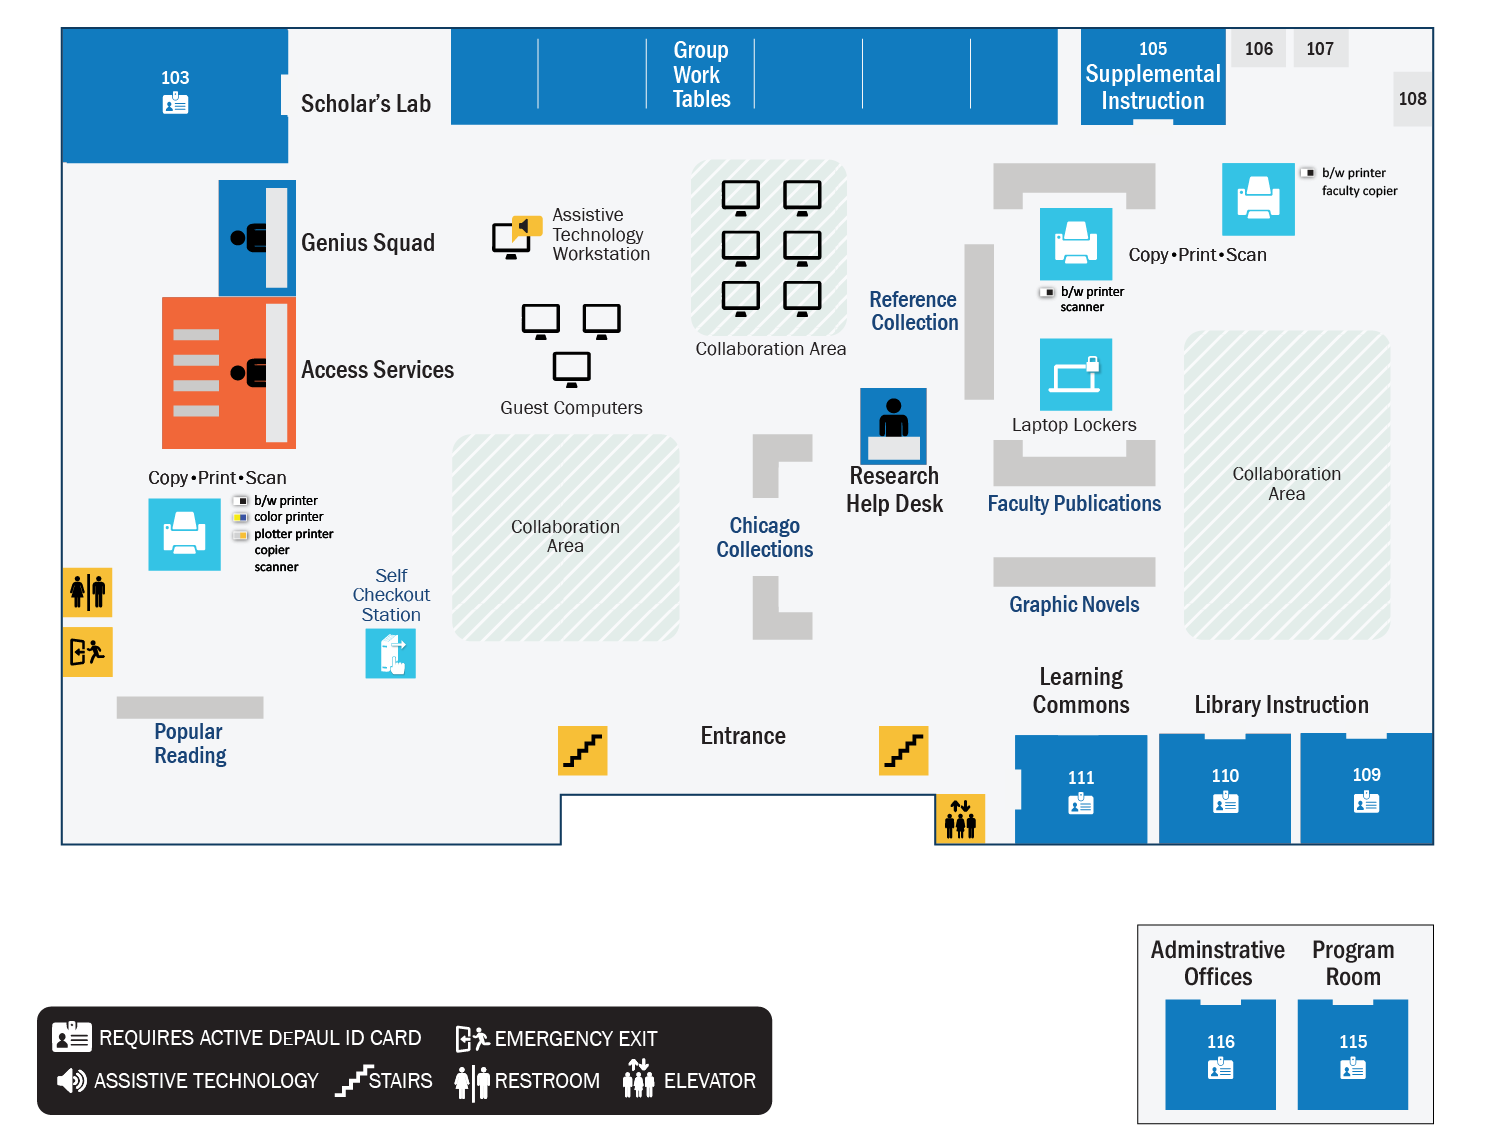
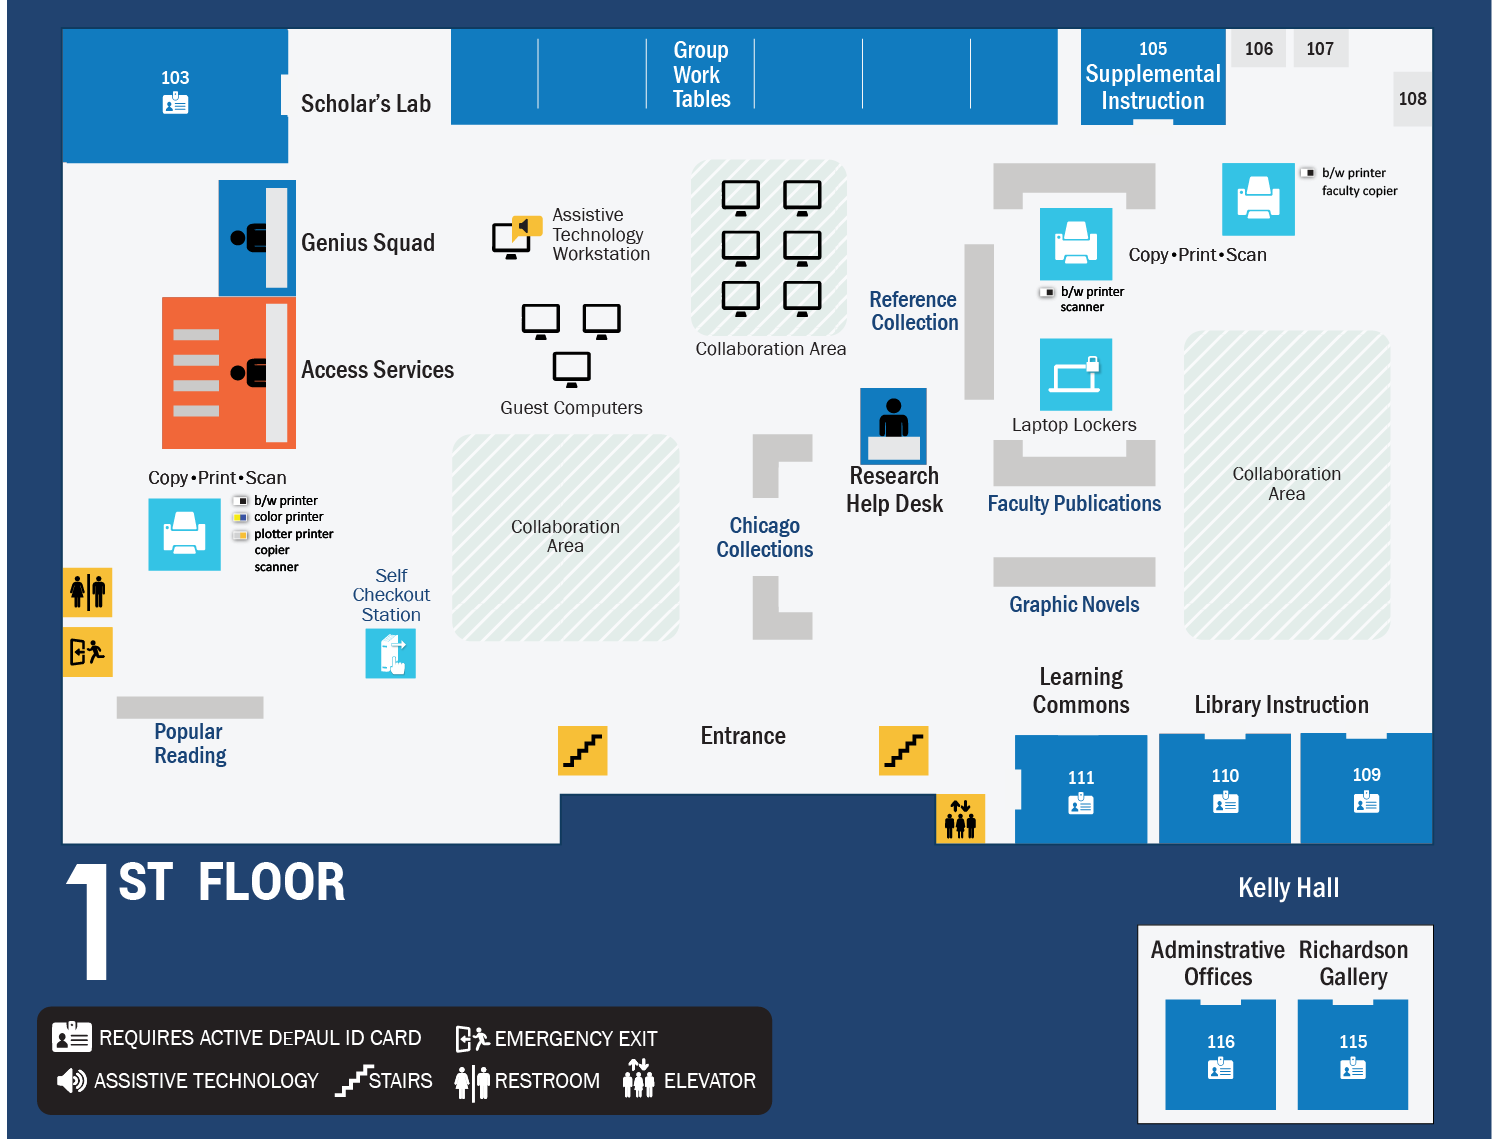
rename program room to richardson gallery

Changed region(s): [[0.0, 0.0, 1.0, 1.0]]

diff --git a/js/wayfinding.js b/js/wayfinding.js
@@ -11,7 +11,7 @@
     var $researchHelpText     = "<b>Research Help Desk</b><br/><br/><b>About:</b><br/>Research Librarians and Peer Research Tutors help you explore your topic and show you how to search effectively for books, articles and other information (like statistics) in library databases and the web. Researchers can ask for in-depth help, or just get assistance finding a single item.";
     var $learningCommonsText  = "<b>Learning Commons</b><br/><br/><b>About:</b><br/>The Learning Commons is a student-centered learning environment that provides collaborative peer-education in a central location surrounded by academic resources.<br/><br/><b>Services Offered:</b><br/><ul><li>Tutoring in Chemistry, Math, Psychology, and Languages (Arabic, Chinese, French, Italian, Japanese, Ancient Greek, Russian, and Spanish)</li><li>Study Jams via OMSS<br/><li>Resume, Internship & Job Help through the Career Center</li><li>Supplemental Instruction</li><li>Workshops</li></ul>";
     var $adminText            = "<b>Administrative Offices</b><br/><br/><b>About:</b><br/>The Administrative Office supports the daily operations of the Richardson and Loop libraries.";
-    var $programRoomText      = "<b>Richardson Art Gallery</b><br/><br/><b>About:</b><br/>Formerly called the Program Room, this space is currently being developed into the Richardson Art Gallery, a space for student art exhibitions.";
+    var $richardsonGalleryText= "<b>Richardson Gallery</b><br/><br/><b>About:</b><br/>Formerly called the Program Room, this space is currently being developed into a space for student art exhibitions.";
     var $206Text              = "<b>JTR 206</b><br/><br/>This is a small group brainstorming/ideation equipped with laptops, digital panel, whiteboards, Legos, papercrafting tools and other supplies to help groups come together to discuss problems and sketch potential solutions.";
     var $207Text              = "<b>JTR 207</b><br/><br/>This is a community event, teaching, and workshop space on topics such as digital mapping, text and data mining, 3-D modelling, and data visualization.  Seats up to 30 people and tables may be reconfigured. Includes laptop cart, surround sound, and high-resolution, oversized digitized panel.";
     var $studioXText          = "<b>Studio χ</b><br/><br/>This is a Center for faculty development to foster and support research at the intersection between humanities and computing. Also known as Studio Chi.";
@@ -41,7 +41,7 @@
 		"1_groupworktables":[$groupWorkTablesText, ["1_groupworktables.png"]],
     "1_instruction":    [$instructionText, ["1_instruction.png"]],
 		"1_learningcommons":[$learningCommonsText, ["1_learningcommons.png"]],
-    "1_programroom":    [$programRoomText, ["1_programroom.png"]],
+    "1_richardsongallery":[$richardsonGalleryText, ["1_richardsongallery.png"]],
     "1_researchhelpdesk":[$researchHelpText, ["1_researchhelpdesk.png"]],
 		"1_scholars":        [$scholarsLabText, ["1_scholars.png"]],
 

diff --git a/maps.html b/maps.html
@@ -92,7 +92,7 @@
             <area shape="rect" coords="1017,736,1143,843" href="#/" title="learningcommons" alt="Learning Commons" id="1_learningcommons">
             <area shape="rect" coords="1163,736,1429,842" href="#/" title="libraryinstruction" alt="Library Instruction" id="1_instruction">
             <area shape="rect" coords="1169,998,1274,1107" href="#/" title="admin" alt="Administrative Office" id="1_admin">
-            <area shape="rect" coords="1302,1002,1405,1106" href="#/" title="programroom" alt="Program Room" id="1_programroom">
+            <area shape="rect" coords="1302,1002,1405,1106" href="#/" title="richardsongallery" alt="Richardson Gallery" id="1_richardsongallery">
          </map>
 			</div>
 
